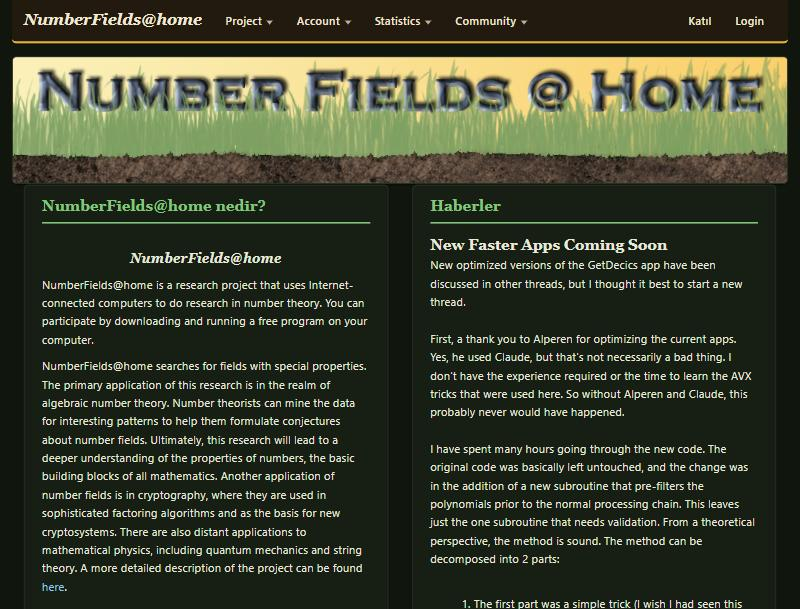
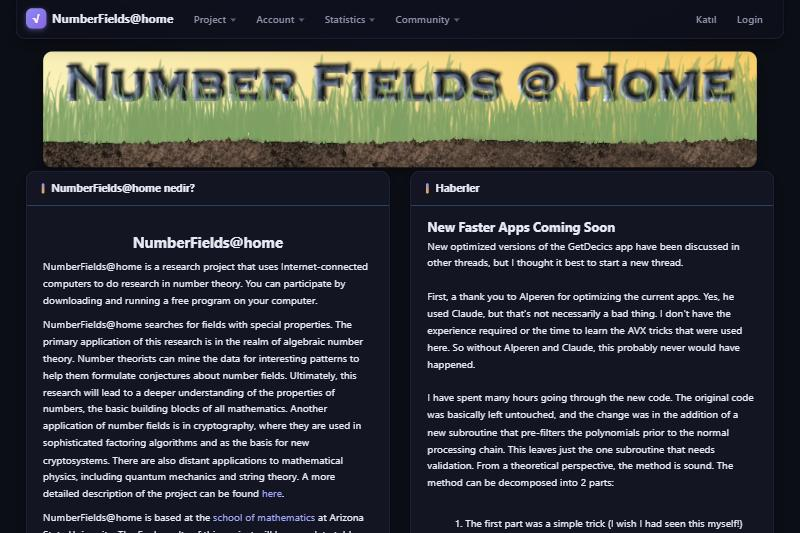
Theme: README and screenshots for Prime

diff --git a/theme/README.md b/theme/README.md
@@ -1,8 +1,8 @@
-# Meadow - a theme for NumberFields@home
+# Prime - a theme for NumberFields@home
 
-A light and dark theme for the NumberFields@home web site whose colours come from the site's own banner: grass green,
-soil brown, sky gold and the blue-grey of its letters, with serif headings. The BOINC pages, tables and forums keep their
-structure. It follows the light/dark setting of your system and works on phones.
+A modern, quiet light and dark theme for the NumberFields@home web site: system sans type, soft cards, hairline
+tables and one indigo accent. The BOINC pages, tables and forums keep their structure, and the site's own banner stays.
+It follows the light/dark setting of your system and works on phones.
 
 Coded By Alperen Yavuz · <https://github.com/alplix/passiflora>
 
